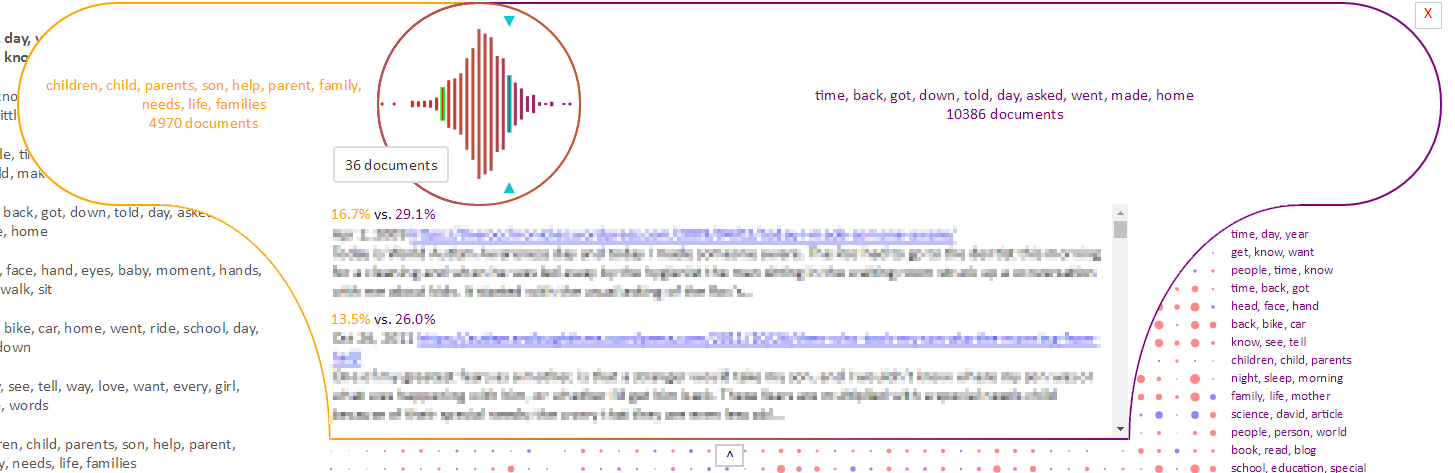
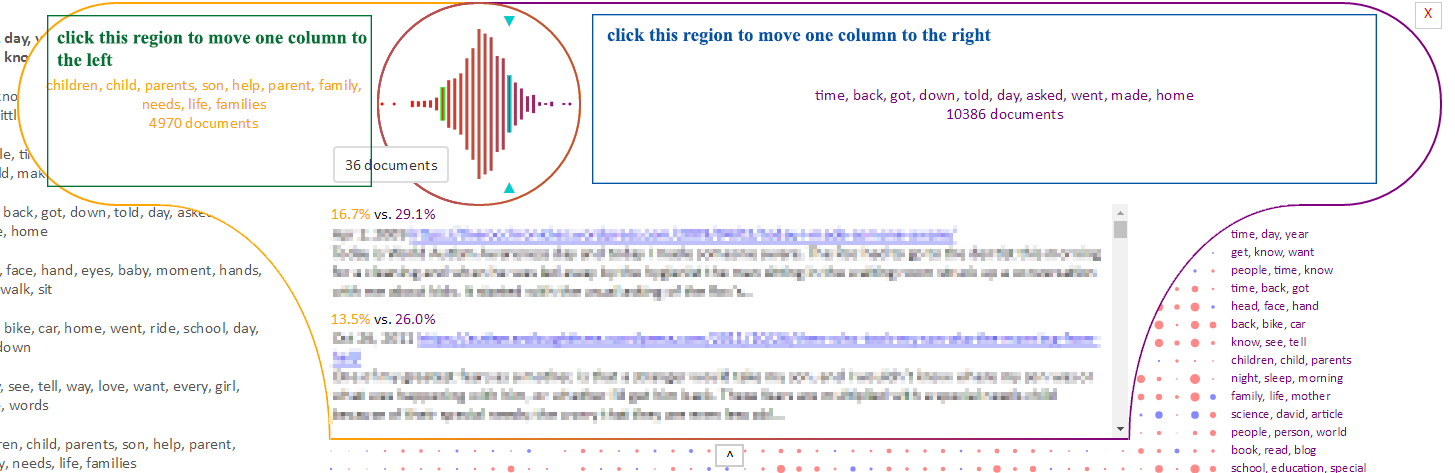
about page renamed to help page

diff --git a/autism-blogs/nodeLDA/jslda.html b/autism-blogs/nodeLDA/jslda.html
@@ -32,7 +32,7 @@
 				<li id="docs-tab" class="selected">Topic Documents</li>
 				<li id="corr-tab">Topic Correlations</li>
 				<li id="ts-tab">Time Series</li>
-				<li id="help-tab">About</li>
+				<li id="help-tab">Help</li>
 			</ul>
 		</div>
 	</div>
@@ -99,31 +99,32 @@
 			<span id="tgraph" />
 		</div>
 		<div id="help-page" class="page">
+			<p>This page serves as a user manual for this site. It will go over the pages it contains, the purpose and function of the page, and how to navigate through them.</p>
 			<h2>Tabs</h2>
-			<img src="/img/tabs.png" alt="tabs.png">
-			<ol>
-				<li>Show/Hide the topic list -- used to frees up spaces for the graphs</li>
-				<li>Show Documents Page</li>
-				<li>Show Correlation Page</li>
-				<li>Show Time Series Page</li>
-				<li>Show About Page -- aka, this page </li>
-			</ol>
+			<ul>
+				<li><span class="tab">>></span><span class="tab"><<</span> -- Show/Hide the topic list -- used to frees up spaces for the graphs</li>
+				<li><span class="tab">Topic Documents</span> -- Show Documents Page</li>
+				<li><span class="tab">Topic Correlations</span> -- Show Correlation Page</li>
+				<li><span class="tab">Time Series</span> -- Show Time Series Page</li>
+				<li><span class="tab">Help</span> -- Show Help Page </li>
+			</ul>
 			<h2>Topic list</h2>
+			<p>The topic always appears on the left side of the page and it displays all the topics that the corpus contains and all the topic words each topic words contains</p>
 			<img src="/img/topics.png" alt="topics.png">
 			<ul>
-				<li>The list displays all the topics</li>
 				<li>The topics are sorted by the average proportion value for all documents in the corpus</li>
 				<li>Hovering over a topic displays the average </li>
 				<li>Clicking a topic will display the first page of the document list for that topic</li>
 				<li>Clicking a topic will take you back to the Documents page, even when you are on different pages</li>
 			</ul>
 			<h2>Topic Documents page</h2>
+			<p>This page displays the documents and their topic proportion value on the topic selected, they are sorted by the proportion value and allows user to have insight to the topic
+			by looking at what high ranked document is descibing.</p>
 			<img src="/img/blog1.png" alt="blog1.png">
 			<img src="/img/blog2.png" alt="blog2.png">
 			<img src="/img/blog3.png" alt="blog3.png">
 			<img src="/img/blog4.png" alt="blog4.png">
 			<ul>
-				<li>This page will display lists of documents sorted by the proportion value for the topic selected</li>
 				<li>Each document includes the rank, its topic proportion value for the topic, the date it was posted, the url link to the post, and the snippet of the blog</li>
 				<li>Based on the topic proportion value, the "value bar" in the background will change
 					<ul>
@@ -135,10 +136,11 @@
 				<li>If the actual blog does not contain any text, "(this post contains no text)" will get displayed</li>
 			</ul>
 			<h2>Topic Correlations page</h2>
+			<p>This page displays how often two topics appear together in the documents, it contains 2 views, the general view allows the user to see the relationship for all 
+			the topics, and the zoom view allows the user to further inspect the relationship for two specific topics.</p>
 				<h3>General View</h3>
 				<img src="/img/corr.png" alt="corr.png" width="800px">
 				<ul>
-					<li>The general view displays the correlation graph</li>
 					<li>The three buttons with magnifying glass can be used to change the graph size to fit the screen</li>
 					<li>Pearson product-moment correlation coefficient is not used due to the property of the LDA process</li>
 					<li>Instead the "correlation" is calculated by the ratio of documents that includes both topics to the product of number of documents that includes each topic</li>
@@ -175,10 +177,11 @@
 					<li>While the documents wiew is open, you can click on the outer circles of the venn diagram to show the column that is one column closer to that topic</li>
 				</ul>
 				
-			<h2>Time Series page</h2>	
+			<h2>Time Series page</h2>
+			<p>This page displays data throughout time, the user will be able to see how the popularity of a topic rises and fall over time in the scale of months. This page also features a zoom view simular to the correlation
+			page which the user can inspect the trend down to the scale of days.</p>
 			<img src="/img/ts.png" alt="ts.png" width="800px">
 			<ul>
-				<li>The page displays the time series graphs</li>
 				<li>Simular to the correlation page, you can use the magnifying glass buttons on top right corner to change the graph size to fit the screen</li>
 				<li>In addition, you can select the scales of the graph to be either topic or corpus
 					<ul>
@@ -223,7 +226,7 @@
 					<li>While zoomed in, the graph can be dragged for finer control of the view</li>
 					<li>Hovering over the circle will display the document</li>
 					<li>Clicking the circle will open the url in a new window</li>
-					<li><b style="color: #2196f3">For Average Value per Document zoom views only</b>
+					<li><b style="color: #ff8f00">For Average Value per Document zoom views only</b>
 						<ul>
 							<li>This type of graph displays how many standard deviation the document is away from <b>daily</b> average</li>
 							<li>The average line is displayed in red, with a legend on the side tracking it</li>
@@ -231,7 +234,7 @@
 							<li>Each horizontal line represents 1 standard deviation</li>
 						</ul>
 					</li>
-					<li><b style="color: #ff8f00">For Number of Documents zoom views only</b>
+					<li><b style="color: #2196f3">For Number of Documents zoom views only</b>
 						<ul>
 							<li>This type of graph displays the topic proportion value of the documents</li>
 							<li>The zoom level of the graph will not reset when months change as the scale is fixed at 0% to 100%</li>
@@ -240,8 +243,8 @@
 					</li>
 				</ul>
 			
-			<h2>About page</h2>
-			<span onclick="$('html,body').animate({ scrollTop: 0}, 700);" style="cursor: pointer;">[show content]</span>
+			<h2>Help page</h2>
+			<span onclick="$('html,body').animate({scrollTop: 0}, 700);" style="cursor: pointer;">[show content]</span>
 		</div>
 
 	</div>

diff --git a/autism-blogs/nodeLDA/jslda.css b/autism-blogs/nodeLDA/jslda.css
@@ -34,7 +34,7 @@ text { font-size: small; fill: #555; dominant-baseline: middle;; }
 .corr-zoom-graph { position: fixed; top: 10px; left: 0px; background-color: #fff; border-radius: 100px; width: 90%; height: 205px; margin-left: 5%; margin-right: 5%; }
 .corr-zoom-graph > div { display: inline-block; position: absolute; }
 .corr-zoom-graph .left div, .corr-zoom-graph .right div{ width: calc(100% - 210px); height: 100%; display: table; margin-left: 10px; margin-right: 10px; }
-.corr-zoom-graph .left span, .corr-zoom-graph .right span { display: table-cell; vertical-align: middle; text-align: center }
+.corr-zoom-graph .left span, .corr-zoom-graph .right span { display: table-cell; vertical-align: middle; text-align: center; -webkit-user-select: none; -moz-user-select: none; cursor: pointer; }
 .corr-zoom-graph .left { border: 2px solid; border-radius: 100px; border-color: #ffa500; height: 200px; }
 .corr-zoom-graph .mid { border: 2px solid; border-radius: 100px; border-color: #bf5240; height: 200px; z-index: 1; }
 .corr-zoom-graph .right { border: 2px solid; border-radius: 100px; border-color: #800080; height: 200px; right: 0px ; }
@@ -54,7 +54,7 @@ text { font-size: small; fill: #555; dominant-baseline: middle;; }
 .t1 { color: #ffa500; fill: #ffa500; }
 .t2 { color: #800080; fill: #800080; }
 
-#corr-page svg text, #ts-page { -webkit-touch-callout: none; -webkit-user-select: none; -moz-user-select: none; -ms-user-select: none; user-select: none; }
+#corr-page svg text, #ts-page { -webkit-user-select: none; -moz-user-select: none; }
 #ts-page svg { border: 1px solid #ccc!important; border-radius: 8px; }
 .ts-div { margin-right: 5px; margin-top: 5px; position: relative; font-size: small; display: inline-block; }
 .ts-div text { position: absolute; font-size: 100%; color: #555; font-size: 100%; text-shadow: 0px 0px 0px #fff; z-index: 1; }
@@ -75,3 +75,5 @@ text { font-size: small; fill: #555; dominant-baseline: middle;; }
 .pz { fill: #ccc; }
 .avgall { fill: #ffb600; }
 .avgone { fill: #ff8f00; }
+
+ #help-page .tab {border: solid #ddd 2px; margin:0 2px 0 0; padding:7px 10px; display: inline-block; color:#333; -webkit-user-select: none; -moz-user-select: none; user-select: none; -moz-border-radius: 4px; border-radius: 4px; background: #FFFFFF;}

diff --git a/autism-blogs/nodeLDA/server.js b/autism-blogs/nodeLDA/server.js
@@ -81,14 +81,14 @@ app.use(express.static(__dirname));
 
 // homepage + pages for each topic
 app.get(baseurl + '/', function(req, res) {
-	
 	var tid = req.query.tid;
 	var page = req.query.page;
-	
+	// return homepage
 	if(typeof tid === 'undefined' && typeof page === 'undefined') {
 		res.set('Content-Type', 'text/html');
 		res.send(homepageHtml);
 		res.end();
+	// return a computed page for just the document section
 	} else {
 		tid = typeof tid === 'undefined' ? 0 : tid;
 		page = typeof page === 'undefined' ? 1 : page;
@@ -159,11 +159,11 @@ app.get(baseurl + '/corr', function(req, res) {
 		var y = topic_table_diag[t1][i] - cutoff;
 		var x = topic_table_diag[t2][i] - cutoff;
 		var r = Math.sqrt(x*x + y*y);
-		if(r < 0.02) {continue;}
+		if(r < 0.02) {continue;} // omitting docs just around the cutoff origin since they all get mapped to the center column
 		var ang =  Math.asin(y/r);
 		ang += Math.PI/4;
 		y = r*Math.sin(ang)*100;
-		x = Math.round(r*Math.cos(ang)*60)*2; //Math.round(r*Math.cos(ang)*maxColumnsOnEachSide)*SpacingBetweenColumn; 
+		x = Math.round(r*Math.cos(ang)*60)*2; // Math.round(r*Math.cos(ang)*maxColumnsOnEachSide)*SpacingBetweenColumn; 
 		data.push({doc: i, x: x, y: y});
 		endx = Math.abs(x)+1 > endx ? Math.abs(x)+1 : endx;
 	}
